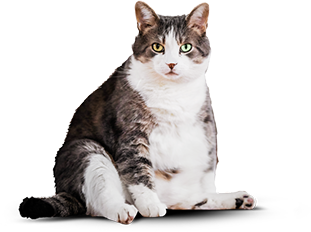
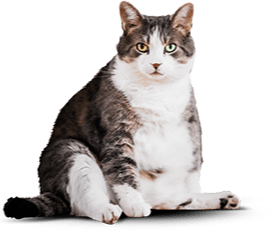
Адаптирует графику .catalog

diff --git a/source/index.html b/source/index.html
@@ -128,7 +128,7 @@
                       <source srcset="img/changes-before-mobile.webp 1x, img/changes-before-mobile@2x.webp 2x" type="image/webp">
                       <source media="(min-width: 1440px)" srcset="img/changes-before-desktop.png 1x, img/changes-before-desktop@2x.png 2x">
                       <source media="(min-width: 768px)" srcset="img/changes-before-tablet.png 1x, img/changes-before-tablet@2x.png 2x">
-                      <img src="img/changes-before-mobile.png" srcset="img/changes-before-mobile@2x.png" width="311" height="232" alt="Упитанный кот">
+                      <img src="img/changes-before-mobile.png" srcset="img/changes-before-mobile@2x.png" width="280" height="232" alt="Упитанный кот">
                     </picture>
                   </li>
                   <li class="changes__item changes__item-after slider__item">

diff --git a/source/less/blocks/range-filter.less b/source/less/blocks/range-filter.less
@@ -11,12 +11,13 @@
 .range-filter__scale {
   position: relative;
   margin: 0 auto;
-  margin-top: 35px;
+  margin-top: 33px;
   width: 84px;
   height: 14px;
   border: 1px solid @light-gray;
   border-radius: 6px;
   background-color: @white;
+  box-sizing: border-box;
 
   @media (min-width: @tablet-width) {
     position: absolute;
@@ -43,7 +44,7 @@
 .range-filter__bar {
   position: absolute;
   background-position: 0 0;
-  top: 4px;
+  top: 3px;
   left: 6px;
   height: 6px;
   width: 35px;
@@ -60,7 +61,7 @@
   content: "Было";
   background-position: 0 0;
   top: -4px;
-  left: -49px;
+  left: -55px;
 
   @media (min-width: @tablet-width) {
     top: -13px;
@@ -79,7 +80,7 @@
   content: "Стало";
   background-position: 0 0;
   top: -4px;
-  left: 96px;
+  left: 101px;
 
   @media (min-width: @tablet-width) {
     top: -13px;

diff --git a/source/less/blocks/promo.less b/source/less/blocks/promo.less
@@ -90,12 +90,17 @@
 }
 
 .promo__slogan {
+  margin: 0;
+  margin-top: 25px;
+  margin-bottom: 29px;
+  padding: 0;
   font-size: 14px;
   line-height: 14px;
   text-transform: uppercase;
   text-align: center;
 
   @media (min-width: @tablet-width) {
+    margin-bottom: 0;
     margin-left: 88px;
     padding-top: 41px;
     width: 283px;
@@ -128,6 +133,10 @@
     left: 558px;
     z-index: 0;
   }
+}
+
+.promo__link {
+  margin-top: 3px;
 }
 
 @media (min-width: @tablet-width) {

diff --git a/source/less/blocks/features.less b/source/less/blocks/features.less
@@ -35,6 +35,7 @@
 
 .features__title {
   margin: 0;
+  margin-top: 4px;
   padding: 0;
   .main-font;
   font-size: 36px;
@@ -43,6 +44,7 @@
   color: @black;
 
   @media (min-width: @tablet-width) {
+    margin-top: 0;
     font-size: 60px;
     line-height: 60px;
     margin-bottom: 32px;
@@ -100,7 +102,7 @@
 
 .features__item {
   position: relative;
-  margin-top: 20px;
+  margin-top: 26px;
 
   @media (min-width: @tablet-width) {
     margin-top: 0;

diff --git a/source/less/blocks/button.less b/source/less/blocks/button.less
@@ -1,8 +1,8 @@
 .button {
   display: block;
   text-align: center;
-  padding-top: 7px;
-  padding-bottom: 7px;
+  padding-top: 11px;
+  padding-bottom: 11px;
   font-size: 14px;
   line-height: 18px;
   text-transform: uppercase;
@@ -66,8 +66,8 @@
     width: 244px;
     font-size: 20px;
     line-height: 20px;
-    padding-top: 14px;
-    padding-bottom: 14px;
+    padding-top: 17px;
+    padding-bottom: 17px;
   }
 }
 

diff --git a/source/less/blocks/page-header.less b/source/less/blocks/page-header.less
@@ -41,7 +41,8 @@
 
 .page-header__logo-mobile {
   display: block;
-  margin-top: 24px;
+  margin-top: 28px;
+  margin-left: -16px;
 
   @media (min-width: @tablet-width) {
     display: none;
@@ -76,7 +77,8 @@
 
 .page-header__button--close {
   position: relative;
-  top: 22px;
+  top: 24px;
+  right: 2px;
   width: 20px;
   height: 20px;
   background-image: url("../img/header-close-button.svg");

diff --git a/source/less/blocks/production.less b/source/less/blocks/production.less
@@ -130,6 +130,10 @@
   text-transform: uppercase;
   font-weight: normal;
 
+  &--pro {
+    padding-top: 27px;
+  }
+
   @media (min-width: @tablet-width) {
     padding-top: 77px;
     padding-left: 53px;
@@ -228,6 +232,10 @@
   &:focus {
     opacity: 0.4;
   }
+}
+
+.production__link:last-of-type {
+  margin-bottom: 23px;
 }
 
 @media (min-width: @tablet-width) {

diff --git a/source/less/blocks/example.less b/source/less/blocks/example.less
@@ -120,7 +120,7 @@
 .example__title {
   margin: 0;
   padding: 0;
-  padding-top: 27px;
+  padding-top: 31px;
   font-size: 36px;
   line-height: 40px;
   font-weight: normal;

diff --git a/source/less/blocks/changes.less b/source/less/blocks/changes.less
@@ -15,6 +15,10 @@
   .reset-list;
   padding-top: 42px;
 
+  .changes__item-before img {
+    height: 232px;
+  }
+
   .changes__item-after {
     display: none;
   }

diff --git a/source/less/global/mixins.less b/source/less/global/mixins.less
@@ -52,6 +52,6 @@
   background-position: 0 0;
   width: 60px;
   height: 60px;
-  top: 0;
+  top: -2px;
   left: 0;
 }
